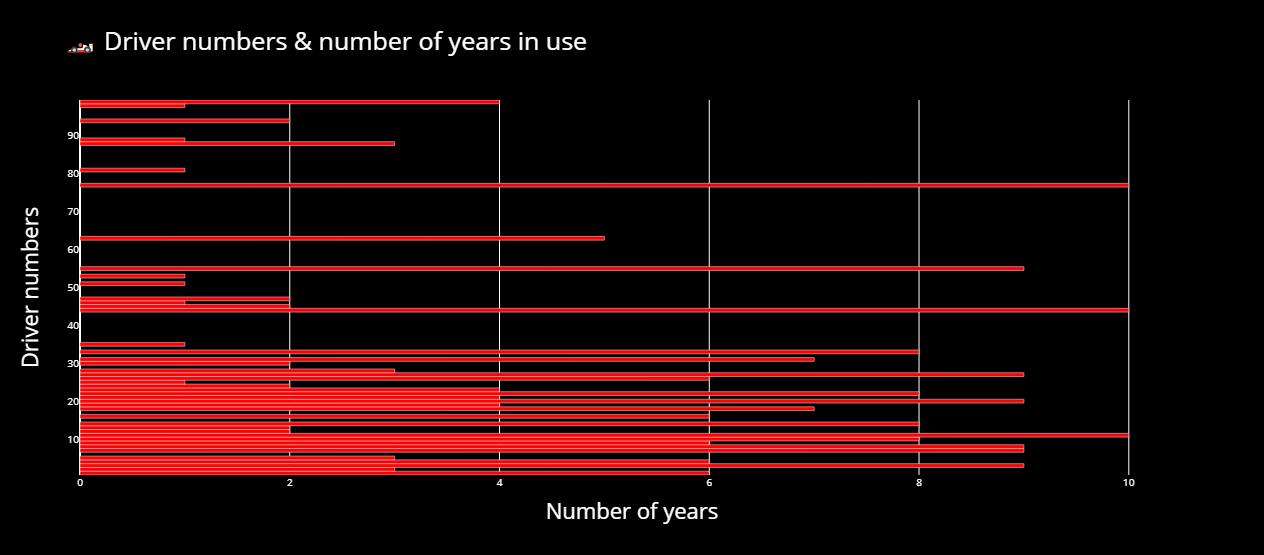
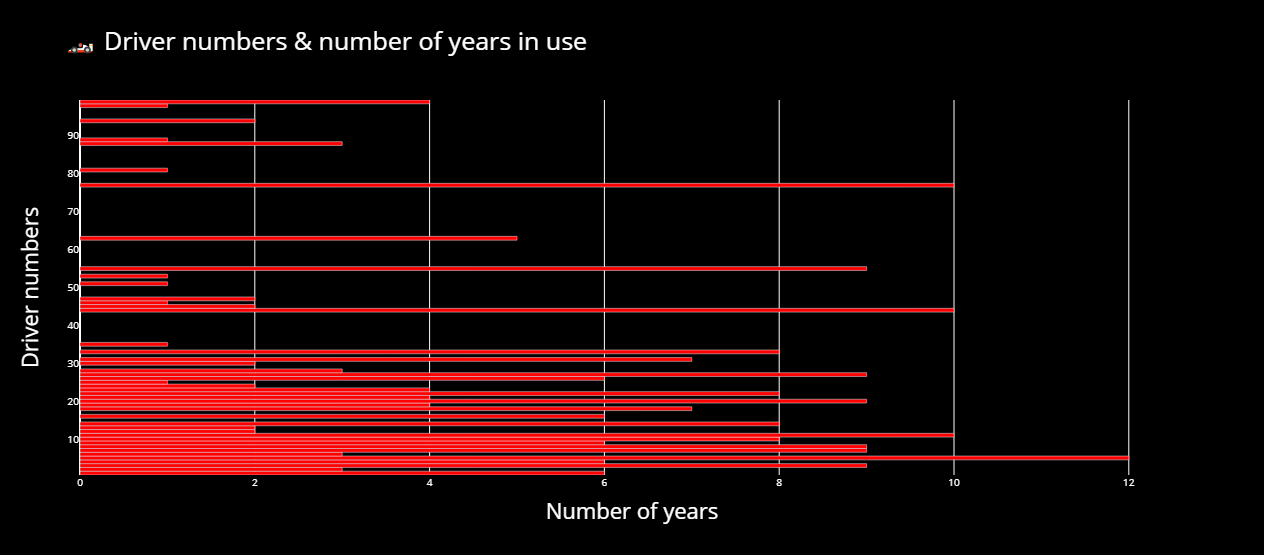
chore: refactor and document behavior

diff --git a/driver_number_graph.py b/driver_number_graph.py
@@ -8,7 +8,7 @@ import requests
 resp = requests.get('https://hu.wikipedia.org/wiki/Formula%E2%80%931')
 soup = BeautifulSoup(resp.text, 'html.parser')
 
-# identify required table
+# identify the required table
 # note: later this can be refactored to more robust identification
 tables = soup.css.select('.wikitable')
 for table in tables:
@@ -16,18 +16,19 @@ for table in tables:
         drivers_table = table.tbody
         break
 
-# 🏎 driver numbers & years
+
+# 🏎1⃣ driver numbers & years
 def numbers_with_years_function():
-    # collect and apir numbers with years
+    # collect and pair numbers with years
 
     def retrieve_years_from_interval(interval):
-        # most years are dispalyed as intervals like "2010, 2015–2022"
-        # we want to retrive the individual years from these as:
+        # most years are displayed as intervals like "2010, 2015–2022"
+        # we want to retrieve the individual years from these as:
         # [2010, 2015, 2016, 2017, 2018, 2019, 2020, 2021, 2022]
         individual_years = []
 
         current_year = 2023
-        
+
         # extracting comma-separated years & intervals for iteration
         for part in interval.split(','):
             case_1 = re.match('^\\d\\d\\d\\d$', part.strip())
@@ -44,48 +45,68 @@ def numbers_with_years_function():
             # case 3: 2011–
             elif case_3:
                 year_start = int(case_3[0].split('–')[0])
-                individual_years.append(list(range(year_start, current_year + 1)))
-        flattened_array = sum(individual_years, []) # 7. https://sparkbyexamples.com/python/convert-a-nested-list-into-a-flat-list-in-python
+                individual_years.append(
+                    list(range(year_start, current_year + 1))) # 7. https://sparkbyexamples.com/python/convert-a-nested-list-into-a-flat-list-in-python
+        flattened_array = sum(individual_years, [])
 
         return flattened_array
-
 
     numbers_with_years = {}
     for driver_row in drivers_table.find_all('tr'):
         try:
             columns = driver_row.find_all('td')
-            if len(columns) == 4: # no rowspans, all four columns are available
+            if len(columns) == 4:  # no rowspans, all four columns are available
                 driver_number = int(columns[0].text.strip())
                 years = retrieve_years_from_interval(columns[-1].text.strip())
                 numbers_with_years[driver_number] = years
-            else: 
-                # driver_number remains the previous value to handle spanrow=2
+            else:
+                # driver_number remains the previous value to handle rowspan=2
                 # also we concat the previous year list with the new one to group by driver number
-                new_years =  retrieve_years_from_interval(columns[-1].text.strip())
-                numbers_with_years[driver_number] = years + new_years
-                years = [] # reset array            
+                new_years = retrieve_years_from_interval(
+                    columns[-1].text.strip())
+                years = years + new_years
+                years.sort()
+                numbers_with_years[driver_number] = years
+                if len(columns) == 3:
+                    # in case of two rowspans: driver_number needs to be incremented
+                    # the edge cases are: #5 and #6
+                    driver_number += 1
+
+                years = []  # reset array
         except Exception:
-            pass # handling the heading row, we can swallow the exception safely
-    
+            pass  # handling the heading row, we can swallow the exception safely
+
     return numbers_with_years
 
 
 # 📈 draw a graph with Plotly
-def draw_graph_function(data):    
+def draw_graph_function(data):
+    # y axis: all driver numbers present in the table
     driver_numbers = list(data.keys())
+    # x axis: length of years for each driver numbers
     number_of_years = [len(data[key]) for key in driver_numbers]
 
-    fig = go.Figure(data=[go.Bar(x=number_of_years, y=driver_numbers, orientation='h', marker={'color' : 'red'})])
+    fig = go.Figure(data=[go.Bar(
+        x=number_of_years, y=driver_numbers, orientation='h', marker={'color': 'red'})])
     fig.update_layout(
         title='🏎 Driver numbers & number of years in use',
-        xaxis={'title' : 'Number of years', 'automargin' : True, 'tickfont' : {'size' : 10}},
-        yaxis={'title' : 'Driver numbers', 'automargin' : True, 'tickfont' : {'size' : 10}},
+        xaxis={'title': 'Number of years',
+               'automargin': True, 'tickfont': {'size': 10}},
+        yaxis={'title': 'Driver numbers',
+               'automargin': True, 'tickfont': {'size': 10}},
         bargap=0,
         plot_bgcolor='black',
         paper_bgcolor='black',
-        font={'size' : 18, 'color' : 'white'}
+        font={'size': 18, 'color': 'white'}
     )
-    fig.show()
+    fig.write_html('tmp.html', auto_open=True)
 
+
+print('# David Barton (theDavidBarton@AOL.com) © 2023\n# Test Automation Engineer coding challenge - Formula One\n\n[init script...]')
+
+print('* data being collected...')
 data = numbers_with_years_function()
-draw_graph_function(data)        
+for key, value in data.items(): print(key, value)
+
+print('* graph being created...')
+draw_graph_function(data)

diff --git a/README.md b/README.md
@@ -2,7 +2,7 @@
 
 A python script to parse and crawl Wikipedia for Formula One-related data using [Beautiful Soup](https://www.crummy.com/software/BeautifulSoup/) and [Requests](https://requests.readthedocs.io/en/latest/) libraries.
 
-For the graph generation [Plotly](https://plotly.com/python/) has been used.
+Graph generated with [Plotly](https://plotly.com/python/) library.
 
 
 ## Environment
@@ -87,12 +87,12 @@ The script can be also run with workflow dispatch (manual trigger) from GitHub A
 
 ## + Plotly graph
 
-Run:
+Run on terminal:
 ```
 python driver_number_graph.py
 ```
 
-It will open a webserver locally on http://127.0.0.1:{port}/ from where the graph can be downloaded as a PNG image.
+It will render a `tmp.html` file that automatically opens in the default browser if run locally from where the graph can be downloaded as a PNG image.
 
 ![Graph saved as PNG](newplot.png)
 
